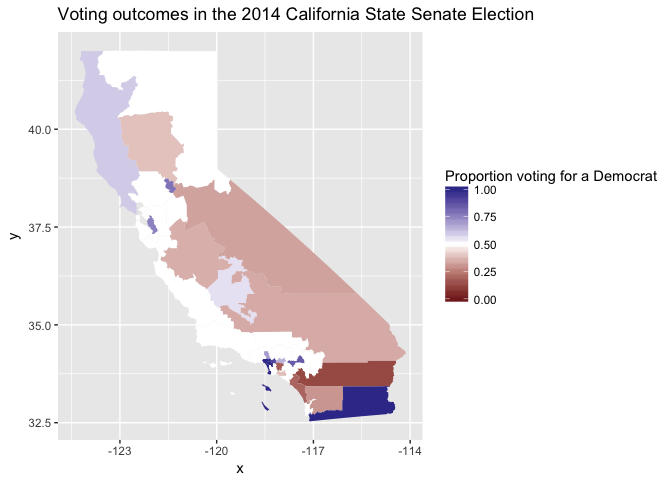
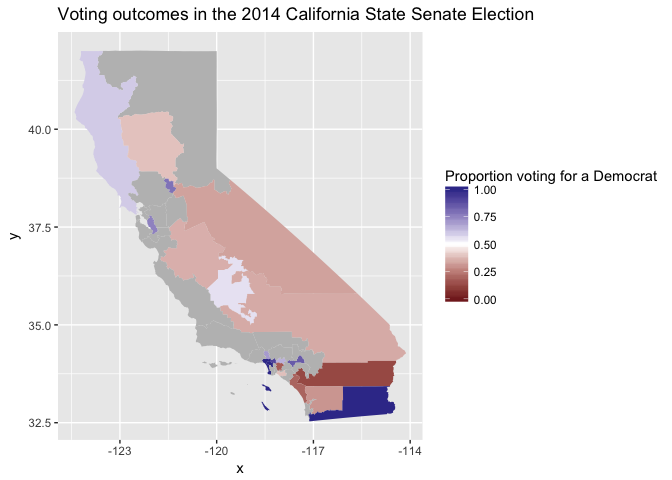
fixed the plot

Changed region(s): [[0.125, 0.0938, 0.5, 0.8125], [0.4375, 0.8438, 0.4688, 0.875]]

diff --git a/FinalProject/FinalProject.md b/FinalProject/FinalProject.md
@@ -267,7 +267,6 @@ plot1
 
 SEN14 <- Results %>%
   filter(year == 2014, chamber == "SEN")
-SEN14$perc_Dem[is.na(SEN14$perc_Dem)] <- .5
 
 SEN14map <-
   ggplot() +
@@ -278,7 +277,8 @@ SEN14map <-
   scale_fill_gradient2(low = muted("red"),
                        mid = "white", midpoint = .5,
                        high = muted("blue"),
-                       limits = c(0, 1)) +
+                       limits = c(0, 1),
+                       na.value = "grey") +
   labs(fill = "Proportion voting for a Democrat") +
   ggtitle("Voting outcomes in the 2014 California State Senate Election")
 SEN14map
